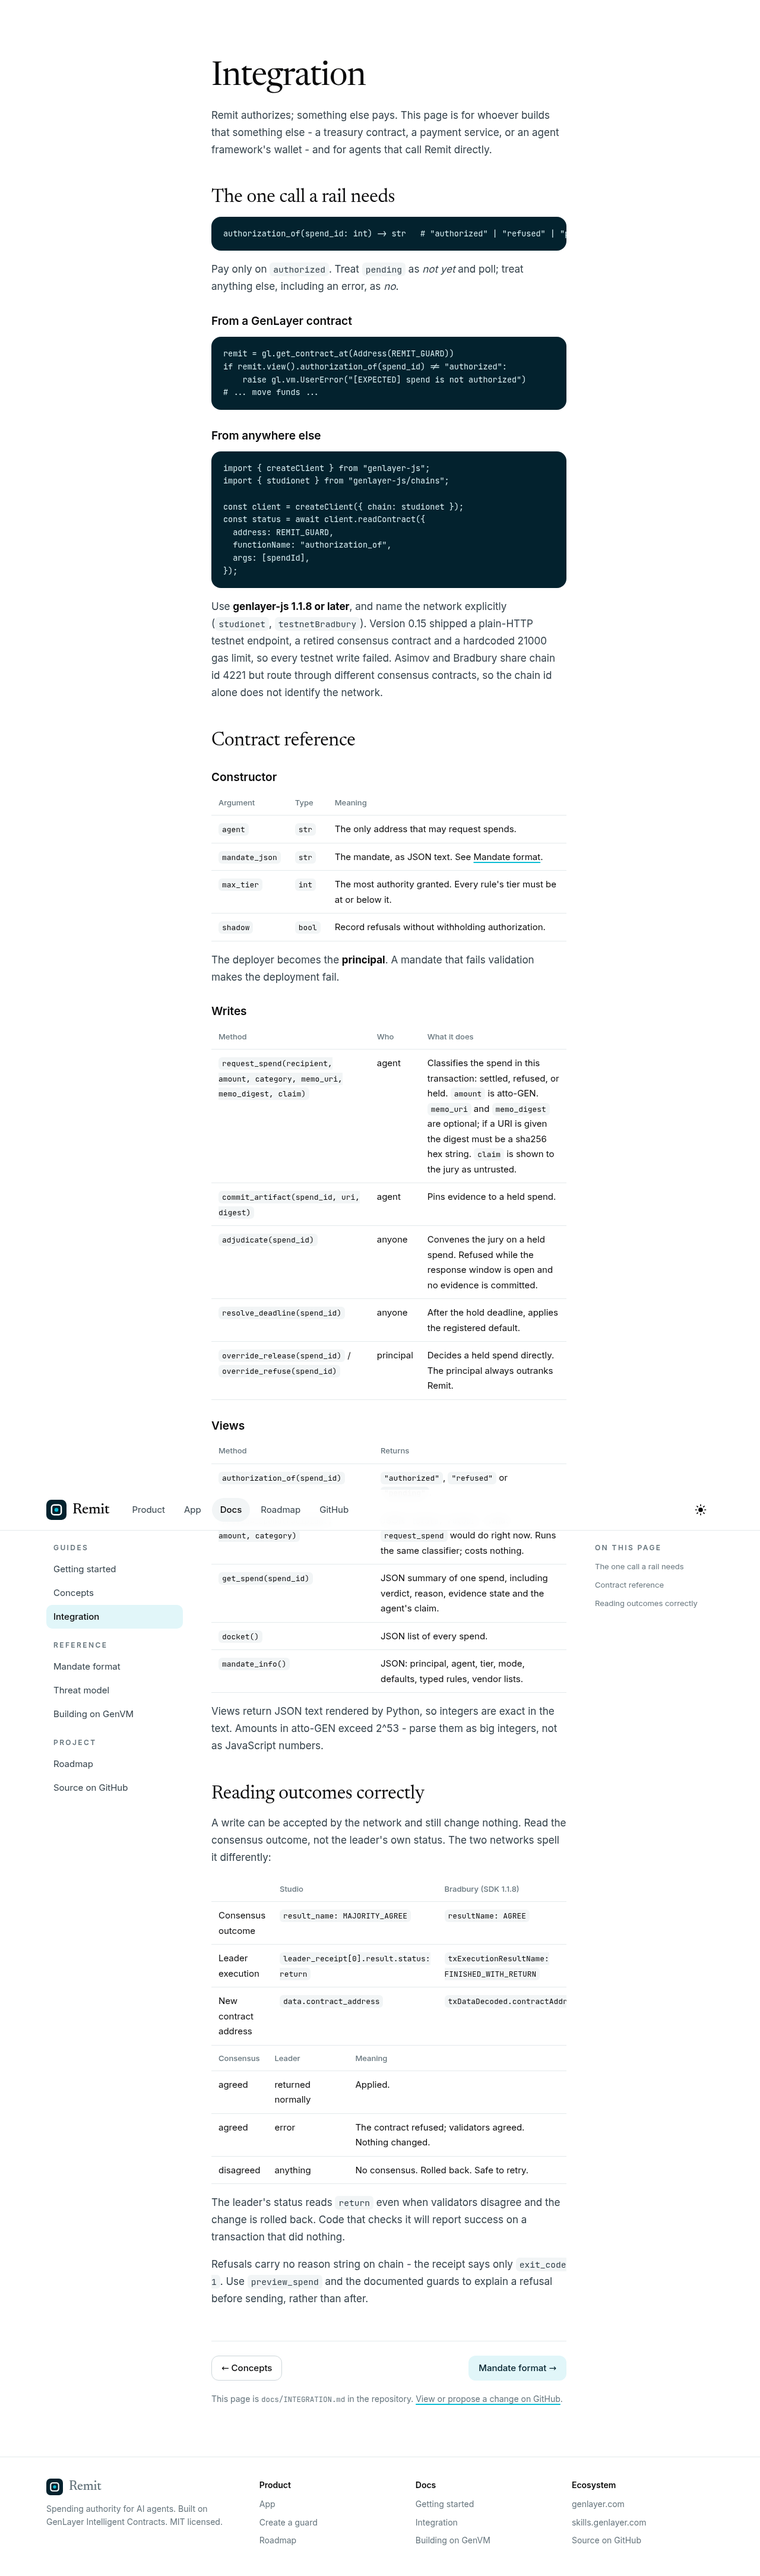
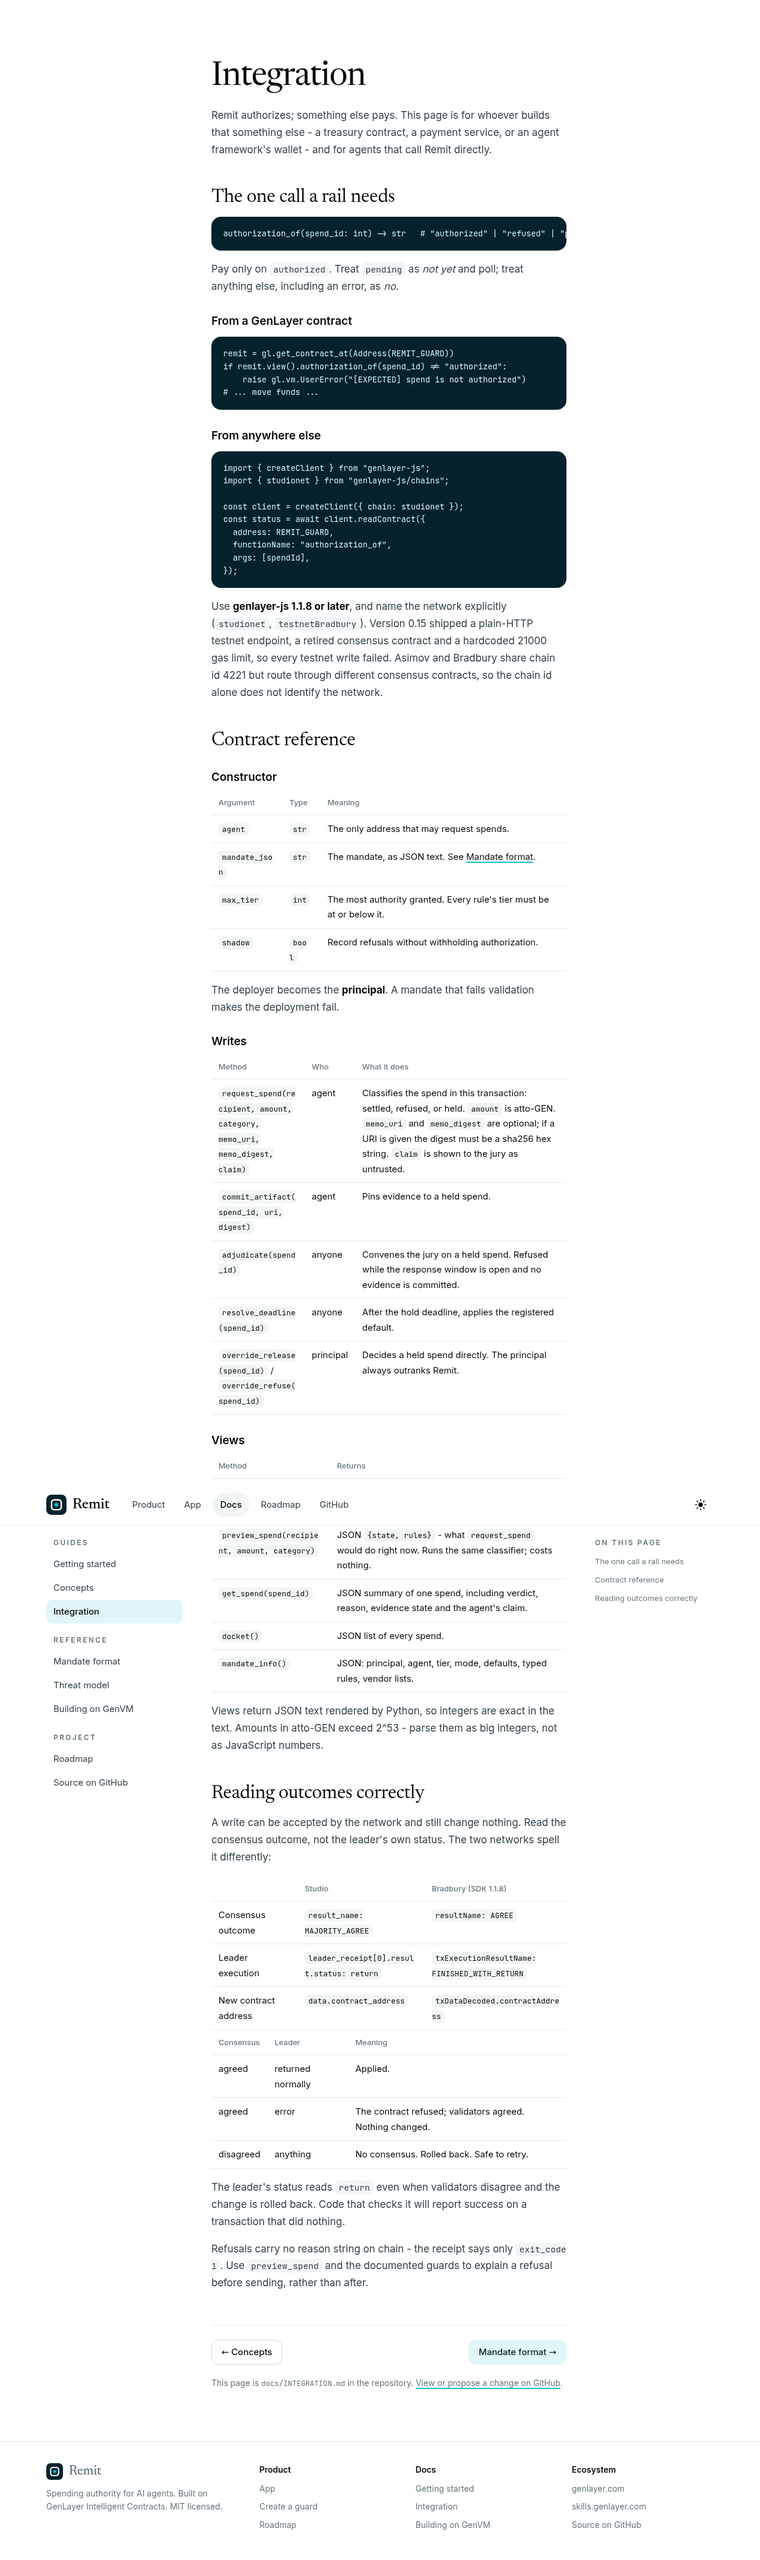
Fit every page on phones: docs no longer widen past the screen
The docs layout had no column template below 980px, so its single implicit
column grew to the widest line of code or table and pushed the whole page
sideways (680-740px wide on a 390px phone). Grid tracks are now
minmax(0, fr) throughout, so content scrolls inside its own box instead.

- Code blocks scroll on their own and use a smaller size on phones
- Long inline code and words wrap instead of overflowing
- App tabs wrap so New guard is visible on narrow phones
- Guard address field shrinks to the screen
- The e2e phone check now covers all 13 pages at 390 and 360px, not just
  the landing page

Claude-Session: https://claude.ai/code/session_0199qJbVFwKsawgRcziZBmuL

diff --git a/frontend/src/styles.css b/frontend/src/styles.css
@@ -183,8 +183,12 @@ label.field { display: grid; gap: 6px; font-size: 14px; color: var(--ink-2); fon
 label.field input, label.field select { width: 100%; }
 .hint { font-size: 13px; color: var(--muted); font-weight: 400; }
 .row { display: flex; gap: 10px; align-items: center; flex-wrap: wrap; }
-.grid-2 { display: grid; grid-template-columns: 1fr; gap: 16px; }
-@media (min-width: 760px) { .grid-2 { grid-template-columns: 1fr 1fr; } }
+/* Single-column grids on phones: an implicit column would grow to fit the
+   widest child (a code line, an address) and push the page sideways. */
+.hero-grid, .compare, .steps, .features, .faq, .cards, .cta, .site-foot .wrap,
+.lanes, .case-grid, .phases, .checklist { grid-template-columns: minmax(0, 1fr); }
+.grid-2 { display: grid; grid-template-columns: minmax(0, 1fr); gap: 16px; }
+@media (min-width: 760px) { .grid-2 { grid-template-columns: minmax(0, 1fr) minmax(0, 1fr); } }
 
 /* ------------------------------------------------------------ halftone */
 
@@ -197,7 +201,7 @@ label.field input, label.field select { width: 100%; }
 
 .hero { padding-top: 48px; padding-bottom: 24px; position: relative; }
 .hero-grid { display: grid; gap: 40px; align-items: center; }
-@media (min-width: 980px) { .hero-grid { grid-template-columns: 1.15fr 0.85fr; gap: 56px; } }
+@media (min-width: 980px) { .hero-grid { grid-template-columns: minmax(0, 1.15fr) minmax(0, 0.85fr); gap: 56px; } }
 .hero .lede { margin-bottom: 32px; }
 
 .device {
@@ -224,7 +228,7 @@ label.field input, label.field select { width: 100%; }
 .section.tight { padding-top: 40px; padding-bottom: 40px; }
 
 .compare { display: grid; gap: 14px; }
-@media (min-width: 820px) { .compare { grid-template-columns: 1fr 1fr; gap: 20px; } }
+@media (min-width: 820px) { .compare { grid-template-columns: minmax(0, 1fr) minmax(0, 1fr); gap: 20px; } }
 .compare .col { border-radius: var(--r-lg); padding: 28px; background: var(--surface-2); }
 .compare .col.jury { background: var(--navy); color: var(--navy-ink); }
 .compare .col h3 { font: 600 12px/1 var(--sans); letter-spacing: 0.2em; text-transform: uppercase; margin: 0 0 18px; opacity: 0.75; }
@@ -233,7 +237,7 @@ label.field input, label.field select { width: 100%; }
 .compare li:first-child { border-top: 0; padding-top: 0; }
 
 .steps { display: grid; gap: 20px; counter-reset: step; }
-@media (min-width: 900px) { .steps { grid-template-columns: repeat(3, 1fr); } }
+@media (min-width: 900px) { .steps { grid-template-columns: repeat(3, minmax(0, 1fr)); } }
 .step { border-top: 2px solid var(--ink); padding-top: 18px; }
 .step .n { font: italic 400 44px/1 var(--serif); color: var(--cyan-deep); }
 :root[data-theme="dark"] .step .n { color: var(--cyan); }
@@ -245,14 +249,14 @@ label.field input, label.field select { width: 100%; }
 .panel-title { font: 400 clamp(44px, 6.5vw, 76px)/1 var(--serif); letter-spacing: -0.02em; color: var(--navy); margin: 0 0 34px; }
 :root[data-theme="dark"] .panel-title { color: var(--ink); }
 .features { display: grid; gap: 28px; margin-bottom: 36px; }
-@media (min-width: 820px) { .features { grid-template-columns: 1fr 1fr; gap: 32px 48px; } }
-.feature { display: grid; grid-template-columns: 40px 1fr; gap: 16px; }
+@media (min-width: 820px) { .features { grid-template-columns: minmax(0, 1fr) minmax(0, 1fr); gap: 32px 48px; } }
+.feature { display: grid; grid-template-columns: 40px minmax(0, 1fr); gap: 16px; }
 .feature .ic { width: 40px; height: 40px; border-radius: 50%; background: var(--primary); color: var(--on-primary); display: grid; place-items: center; }
 .feature h4 { margin: 4px 0 6px; font-size: 20px; font-weight: 500; }
 .feature p { margin: 0; color: var(--ink-2); font-size: 16px; }
 
-.stats { display: grid; grid-template-columns: repeat(2, 1fr); gap: 12px; }
-@media (min-width: 820px) { .stats { grid-template-columns: repeat(4, 1fr); } }
+.stats { display: grid; grid-template-columns: repeat(2, minmax(0, 1fr)); gap: 12px; }
+@media (min-width: 820px) { .stats { grid-template-columns: repeat(4, minmax(0, 1fr)); } }
 .stat { background: var(--surface-2); border-radius: var(--r); padding: 20px; }
 .stat .v { font: 400 44px/1 var(--serif); letter-spacing: -0.02em; }
 .stat .k { font-size: 14px; color: var(--muted); margin-top: 8px; }
@@ -272,9 +276,9 @@ label.field input, label.field select { width: 100%; }
 .copy-pill:hover { background: var(--surface-3); }
 
 .cards { display: grid; gap: 20px; }
-@media (min-width: 760px) { .cards { grid-template-columns: repeat(3, 1fr); } }
-.card-link { display: grid; grid-template-columns: 110px 1fr; gap: 16px; align-items: start; text-decoration: none; }
-@media (min-width: 760px) { .card-link { grid-template-columns: 1fr; } }
+@media (min-width: 760px) { .cards { grid-template-columns: repeat(3, minmax(0, 1fr)); } }
+.card-link { display: grid; grid-template-columns: 110px minmax(0, 1fr); gap: 16px; align-items: start; text-decoration: none; }
+@media (min-width: 760px) { .card-link { grid-template-columns: minmax(0, 1fr); } }
 .card-link .thumb { aspect-ratio: 4 / 3; border-radius: var(--r); background-color: var(--cyan-soft); position: relative; overflow: hidden; }
 .card-link .thumb .shape { position: absolute; inset: 22% 18%; border-radius: 50% 44% 52% 48%; background: var(--cyan); opacity: 0.9; }
 .card-link .thumb.navy .shape { background: var(--navy); }
@@ -283,12 +287,12 @@ label.field input, label.field select { width: 100%; }
 .card-link:hover h3 { text-decoration: underline; text-decoration-color: var(--cyan); text-decoration-thickness: 2px; }
 
 .cta { border-radius: var(--r-lg); background: var(--navy); color: var(--navy-ink); padding: 40px 24px; display: grid; gap: 24px; }
-@media (min-width: 820px) { .cta { padding: 56px; grid-template-columns: 1fr auto; align-items: end; } }
+@media (min-width: 820px) { .cta { padding: 56px; grid-template-columns: minmax(0, 1fr) auto; align-items: end; } }
 .cta h2 { font: 400 clamp(36px, 5vw, 56px)/1.05 var(--serif); margin: 0; letter-spacing: -0.02em; }
 
 .site-foot { border-top: 1px solid var(--line); margin-top: 72px; padding: 36px 0 48px; font-size: 14px; color: var(--muted); }
 .site-foot .wrap { display: grid; gap: 24px; }
-@media (min-width: 820px) { .site-foot .wrap { grid-template-columns: 1.4fr repeat(3, 1fr); } }
+@media (min-width: 820px) { .site-foot .wrap { grid-template-columns: minmax(0, 1.4fr) repeat(3, minmax(0, 1fr)); } }
 .site-foot h4 { color: var(--ink); font-size: 14px; margin: 0 0 10px; font-weight: 600; }
 .site-foot ul { list-style: none; padding: 0; margin: 0; display: grid; gap: 8px; }
 .site-foot a { text-decoration: none; }
@@ -298,13 +302,15 @@ label.field input, label.field select { width: 100%; }
 
 .app-bar { border-bottom: 1px solid var(--line); background: var(--surface); }
 .app-bar .wrap { display: flex; gap: 12px; align-items: center; flex-wrap: wrap; padding-top: 12px; padding-bottom: 12px; }
-.tabs { display: flex; gap: 4px; overflow-x: auto; scrollbar-width: none; max-width: 100%; }
+.tabs { display: flex; flex-wrap: wrap; gap: 4px; max-width: 100%; }
+@media (max-width: 559px) { .tabs a { padding: 8px 12px; font-size: 14.5px; } }
 .tabs a { padding: 8px 14px; border-radius: 999px; text-decoration: none; color: var(--ink-2); font-size: 15px; white-space: nowrap; }
 .tabs a:hover { background: var(--surface-2); }
 .tabs a[aria-current="page"] { background: var(--primary); color: var(--on-primary); }
 .app-bar .right { margin-left: auto; display: flex; gap: 8px; align-items: center; flex-wrap: wrap; }
 .guardbar { display: flex; gap: 8px; align-items: center; flex-wrap: wrap; margin: 20px 0 28px; font-size: 14px; color: var(--muted); }
-.guardbar input { width: 400px; max-width: 100%; }
+.guardbar form { flex: 1 1 320px; min-width: 0; max-width: 640px; }
+.guardbar input { flex: 1 1 200px; width: auto; }
 .app-main { padding-top: 8px; padding-bottom: 24px; }
 .page-title { font: 400 clamp(36px, 5vw, 52px)/1.05 var(--serif); letter-spacing: -0.02em; margin: 0 0 12px; }
 
@@ -314,7 +320,7 @@ label.field input, label.field select { width: 100%; }
 .card .sub { color: var(--muted); font-size: 14px; margin: 0 0 16px; }
 
 .lanes { display: grid; gap: 16px; }
-@media (min-width: 860px) { .lanes { grid-template-columns: 1fr 1fr; } }
+@media (min-width: 860px) { .lanes { grid-template-columns: minmax(0, 1fr) minmax(0, 1fr); } }
 .lane { border-radius: var(--r); padding: 22px; background: var(--surface-2); }
 .lane.judgment { background: var(--cyan-soft); }
 .lane header { display: flex; align-items: baseline; justify-content: space-between; gap: 8px; }
@@ -353,7 +359,7 @@ label.field input, label.field select { width: 100%; }
 .case-head { display: flex; align-items: flex-end; justify-content: space-between; gap: 16px; flex-wrap: wrap; margin-bottom: 22px; }
 .case-head .amt { font: 400 52px/1 var(--serif); letter-spacing: -0.02em; margin: 6px 0; }
 .case-grid { display: grid; gap: 16px; align-items: start; }
-@media (min-width: 900px) { .case-grid { grid-template-columns: 1.4fr 1fr; } }
+@media (min-width: 900px) { .case-grid { grid-template-columns: minmax(0, 1.4fr) minmax(0, 1fr); } }
 .timeline { list-style: none; margin: 0; padding: 0; }
 .timeline li { position: relative; padding: 0 0 18px 28px; }
 .timeline li::before { content: ""; position: absolute; left: 5px; top: 7px; width: 10px; height: 10px; border-radius: 50%; background: var(--line-strong); box-shadow: 0 0 0 3px var(--surface); }
@@ -371,7 +377,7 @@ label.field input, label.field select { width: 100%; }
 .meter > i { display: block; height: 100%; background: var(--ink); }
 .untrusted { border: 1px dashed var(--line-strong); border-radius: var(--r-sm); padding: 14px 16px; background-color: var(--surface-2); }
 .untrusted .tag { font: 600 11px/1 var(--sans); letter-spacing: 0.18em; text-transform: uppercase; color: var(--muted); }
-dl.kv { display: grid; grid-template-columns: max-content 1fr; gap: 10px 18px; margin: 0; font-size: 15px; }
+dl.kv { display: grid; grid-template-columns: max-content minmax(0, 1fr); gap: 10px 18px; margin: 0; font-size: 15px; }
 dl.kv dt { color: var(--muted); }
 dl.kv dd { margin: 0; min-width: 0; overflow-wrap: anywhere; }
 
@@ -389,7 +395,8 @@ dl.kv dd { margin: 0; min-width: 0; overflow-wrap: anywhere; }
 
 /* ------------------------------------------------------------ docs */
 
-.docs { display: grid; gap: 32px; padding-top: 32px; }
+.docs { display: grid; grid-template-columns: minmax(0, 1fr); gap: 32px; padding-top: 32px; }
+.docs > * { min-width: 0; }
 @media (min-width: 980px) { .docs { grid-template-columns: 230px minmax(0, 1fr) 200px; gap: 48px; } }
 .docs-nav { display: none; }
 @media (min-width: 980px) { .docs-nav { display: block; position: sticky; top: 92px; align-self: start; } }
@@ -403,15 +410,16 @@ dl.kv dd { margin: 0; min-width: 0; overflow-wrap: anywhere; }
 .toc button { display: block; text-align: left; background: none; border: 0; padding: 5px 0; color: var(--muted); cursor: pointer; font-size: 13px; }
 .toc button:hover { color: var(--ink); }
 
-.prose { min-width: 0; max-width: 760px; font-size: 17px; line-height: 1.7; }
+.prose { min-width: 0; overflow-wrap: break-word; max-width: 760px; font-size: 17px; line-height: 1.7; }
 .prose h1 { font: 400 clamp(40px, 5vw, 56px)/1.05 var(--serif); letter-spacing: -0.02em; margin: 0 0 20px; }
 .prose h2 { font: 400 32px/1.15 var(--serif); margin: 48px 0 12px; letter-spacing: -0.01em; scroll-margin-top: 90px; }
 .prose h3 { font: 600 19px/1.3 var(--sans); margin: 32px 0 8px; scroll-margin-top: 90px; }
 .prose p, .prose li { color: var(--ink-2); }
 .prose strong { color: var(--ink); }
-.prose code { font-family: var(--mono); font-size: 0.86em; background: var(--surface-2); padding: 2px 6px; border-radius: 6px; }
-.prose pre { background: #03222e; color: #d8eef2; padding: 18px 20px; border-radius: var(--r); overflow-x: auto; font-size: 13.5px; line-height: 1.6; }
-.prose pre code { background: none; padding: 0; color: inherit; font-size: inherit; }
+.prose code { overflow-wrap: anywhere; font-family: var(--mono); font-size: 0.86em; background: var(--surface-2); padding: 2px 6px; border-radius: 6px; }
+.prose pre { max-width: 100%; background: #03222e; color: #d8eef2; padding: 18px 20px; border-radius: var(--r); overflow-x: auto; font-size: 13.5px; line-height: 1.6; }
+@media (max-width: 559px) { .prose pre { font-size: 12.5px; padding: 14px 16px; } }
+.prose pre code { overflow-wrap: normal; background: none; padding: 0; color: inherit; font-size: inherit; }
 .prose blockquote { margin: 20px 0; padding: 4px 20px; border-left: 3px solid var(--cyan); background: var(--cyan-soft); border-radius: 0 var(--r-sm) var(--r-sm) 0; }
 .prose table { width: 100%; border-collapse: collapse; font-size: 15px; display: block; overflow-x: auto; }
 .prose th, .prose td { border-bottom: 1px solid var(--line); padding: 10px 12px; text-align: left; vertical-align: top; }
@@ -431,7 +439,7 @@ dl.kv dd { margin: 0; min-width: 0; overflow-wrap: anywhere; }
 .progress-bar { height: 6px; border-radius: 99px; background: color-mix(in srgb, var(--ink) 10%, transparent); overflow: hidden; margin: 16px 0 6px; }
 .progress-bar i { display: block; height: 100%; background: var(--primary); }
 .checklist { list-style: none; margin: 14px 0 0; padding: 0; display: grid; gap: 8px; }
-.checklist li { display: grid; grid-template-columns: 22px 1fr; gap: 10px; font-size: 15px; color: var(--ink-2); }
+.checklist li { display: grid; grid-template-columns: 22px minmax(0, 1fr); gap: 10px; font-size: 15px; color: var(--ink-2); }
 .checklist .box { width: 18px; height: 18px; border-radius: 5px; border: 1.5px solid var(--line-strong); margin-top: 3px; display: grid; place-items: center; font-size: 12px; }
 .checklist li.on .box { background: var(--primary); border-color: var(--primary); color: var(--on-primary); }
 .checklist li.on { color: var(--ink); }
